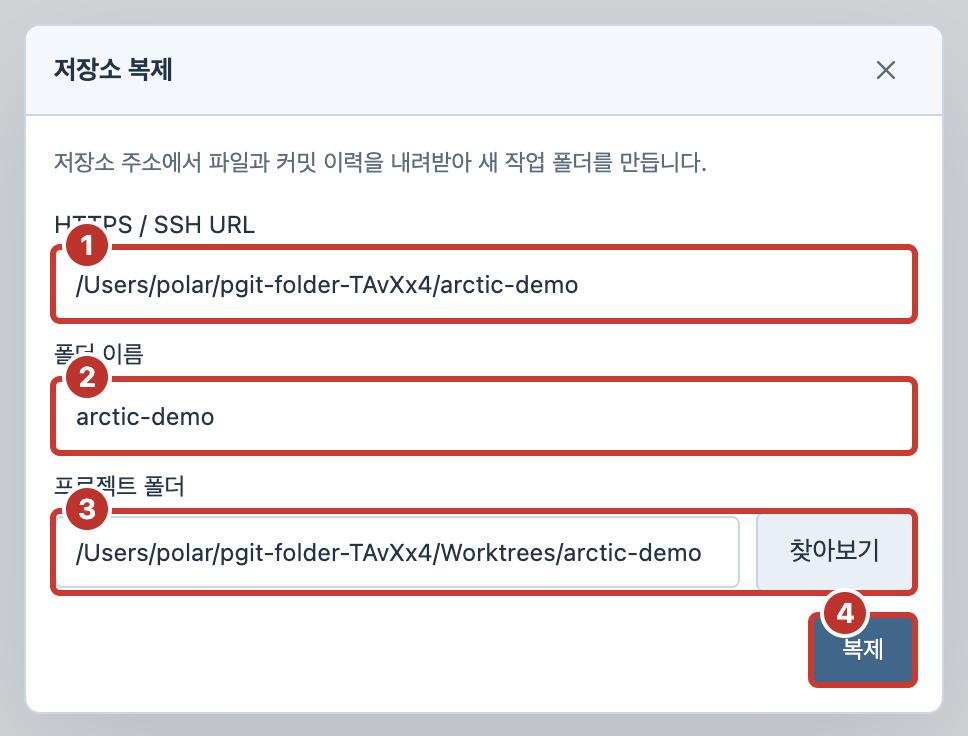
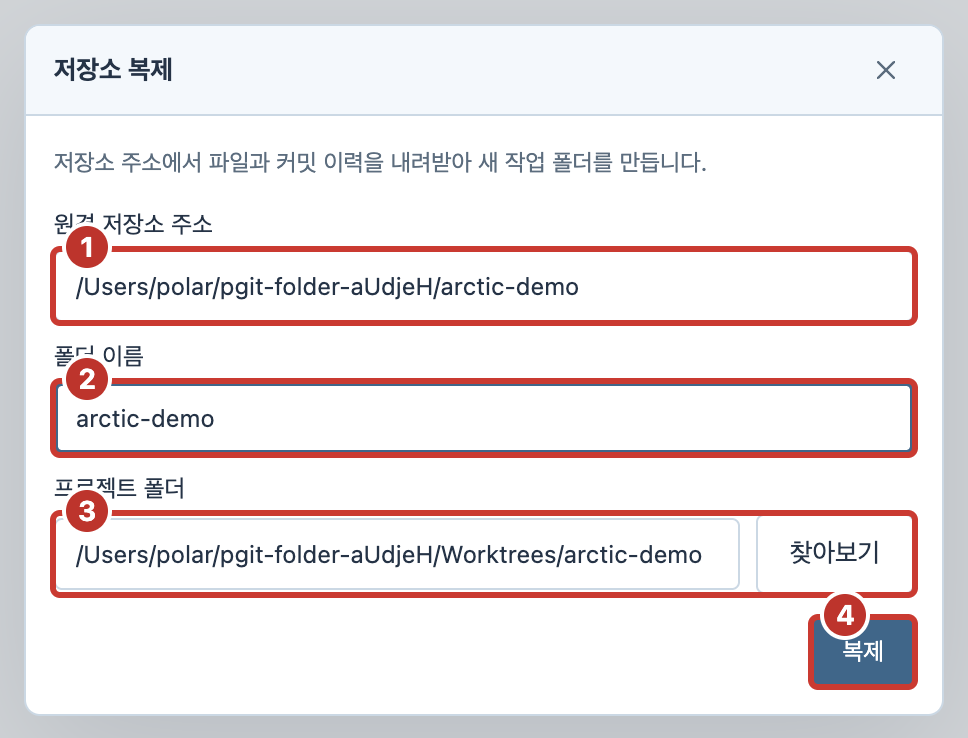
fix: distinguish missing repository folders from missing Git

diff --git a/public/workspace.js b/public/workspace.js
@@ -4,7 +4,7 @@ const commands={
  branchSwitch:['브랜치 전환',[['name','전환할 브랜치','branches']],'작업 폴더가 깨끗한 경우에만 전환합니다.'],
  branchRename:['브랜치 이름 변경',[['name','기존 브랜치','branches'],['newName','새 이름']]],
  branchDelete:['브랜치 삭제',[['name','삭제할 브랜치','branches']],'병합된 로컬 브랜치만 삭제합니다.'],
- remoteAdd:['원격 추가',[['name','원격 이름','origin'],['url','HTTPS / SSH URL']]],
+ remoteAdd:['원격 추가',[['name','원격 이름','origin'],['url','원격 저장소 주소']]],
  remoteRemove:['원격 제거',[['name','원격 이름','remotes']],'원격 설정과 해당 원격 추적 참조를 제거합니다.'],
  remoteList:['원격 주소 보기',[]],fetch:['Fetch',[['remote','원격','remotes']]],pull:['Pull',[['strategy','Pull 방식','pullStrategies']]],push:['Push',[['remote','원격','remotes']],'현재 브랜치를 원격의 같은 이름 브랜치로 전송합니다. 강제 Push는 하지 않습니다.'],
  stashSave:['Stash 만들기',[['message','설명','pGit stash']],'추적하지 않는 새 파일도 보관합니다.'],stashApply:['Stash 적용',[['hash','Stash','stashes']]],stashPop:['Stash 적용 후 제거',[['hash','Stash','stashes']]],stashDrop:['Stash 삭제',[['hash','Stash','stashes']],'선택한 Stash를 삭제합니다. 이 작업은 취소할 수 없습니다.'],stashDiff:['Stash Diff',[['hash','Stash','stashes']]],
@@ -15,7 +15,7 @@ const commands={
  undoCommit:['마지막 커밋 되돌리기',[],'HEAD를 부모 커밋으로 이동하고 변경은 스테이징에 남깁니다. 이미 공유한 커밋에는 Revert를 사용하세요.'],
  fileHistory:['파일 이력',[['name','추적 파일','files']]],blame:['Blame',[['name','추적 파일','files']]],compare:['참조 비교',[['from','기준 참조','commits',false,'HEAD~1'],['to','비교 참조','commits',false,'HEAD']]],reflog:['Reflog',[]],
  worktreeList:['Worktree 목록',[]],worktreeAdd:['Worktree 만들기',[['path','새 작업 폴더 절대 경로'],['name','새 브랜치'],['ref','시작 커밋','commits',false,'HEAD']]],worktreeRemove:['Worktree 제거',[['path','제거할 작업 폴더','worktrees']],'선택한 작업 폴더를 삭제합니다. 수정 내용이 있거나 잠긴 worktree는 Git이 거부합니다.'],
- init:['새 저장소 만들기',[['path','프로젝트 폴더']]],clone:['저장소 복제',[['url','HTTPS / SSH URL'],['path','프로젝트 폴더']]]
+ init:['새 저장소 만들기',[['path','프로젝트 폴더']]],clone:['저장소 복제',[['url','원격 저장소 주소'],['path','프로젝트 폴더']]]
 };
 const categories=[['저장소',['init','clone','remoteAdd','remoteList','remoteRemove']],['브랜치',['branchCreate','branchSwitch','branchRename','branchDelete']],['동기화',['fetch','pull','push']],['커밋',['mergePreview','merge','rebase','cherryPick','revert','compare','undoCommit','reflog']],['보관',['stashSave','stashDiff','stashApply','stashPop','stashDrop','tagCreate','tagDelete']],['파일 · Worktree',['fileHistory','blame','resolve','worktreeList','worktreeAdd','worktreeRemove']]];
 const panel=el('dialog');panel.id='commandDialog';panel.setAttribute('aria-label','Git 작업');document.body.append(panel);
@@ -40,7 +40,7 @@ window.addEventListener('pgit-language-change',()=>{if(panel.open&&panel.dataset
 
 async function openCommand(key){if(working)return;if(!state&&!['init','clone'].includes(key)){notify('먼저 저장소를 여세요.');return}let amend=null;if(key==='amend'){try{amend=await api('amendInfo')}catch(e){notify(e.message);return}}const [title,fields,warning]=commands[key];panel.dataset.dialogKind='form';panel.replaceChildren();const bar=el('div',undefined,'bar');bar.append(el('strong',title),closeButton());const form=el('form',undefined,'command-body');form.dataset.command=key;panel.append(bar,form);PgitCommandHelp.mount(form,key);if(warning)form.append(el('p',warning,'command-notice'));const error=el('p',undefined,'command-error');error.setAttribute('role','alert');const inputs=amend?{head:{value:amend.head}}:{};let tracked=[];if(fields.some(f=>f[2]==='files'))try{tracked=await api('trackedFiles')}catch(e){notify(e.message);return}
 for(const [name,label,source,optional,initial] of fields){const choices=source==='pullStrategies'?[['ff-only','Fast-forward only'],['merge','Merge'],['rebase','Rebase']]:source==='mergeRefs'?[...state.branches.map(b=>[b.name,b.name]),...state.refs.filter(r=>r.name.startsWith('refs/remotes/')&&!r.name.endsWith('/HEAD')).map(r=>[r.name,r.name.slice(13)])]:source==='branches'?state.branches.map(b=>[b.name,b.name]):source==='remotes'?state.remotes.map(n=>[n,n]):source==='stashes'?state.stashes.map(s=>[s.hash,s.name+' · '+s.title]):source==='tags'?state.refs.filter(r=>r.name.startsWith('refs/tags/')).map(r=>[r.name.slice(10),r.name.slice(10)]):source==='conflicts'?state.files.filter(f=>f.conflict).map(f=>[f.name,f.name]):source==='files'?tracked.map(n=>[n,n]):source==='worktrees'?state.worktrees.filter(w=>w.path!==state.root).map(w=>[w.path,w.path]):null;
-const input=source==='commits'?PgitCommitPicker.create(state,initial||activeCommit||state.head):el(source==='commitMessage'?'textarea':choices?'select':'input');input.id='command-'+name;input.name=name;input.required=!optional;if(source==='commitMessage'){input.value=amend.message;input.className='commit-message-input';input.rows=6;input.maxLength=4000}else if(source==='commits'){}else if(choices){for(const [v,t] of choices){const option=el('option',t);option.value=v;input.append(option)}if(!choices.length){input.append(el('option','항목 없음'));input.disabled=true}}else{input.type='text';input.value=source==='selected'?activeCommit||'':source||''}const lab=el('label',label);lab.htmlFor=input.id;form.append(lab,input);inputs[name]=input}
+const input=source==='commits'?PgitCommitPicker.create(state,initial||activeCommit||state.head):el(source==='commitMessage'?'textarea':choices?'select':'input');input.id='command-'+name;input.name=name;if(name==='url')input.placeholder='https://gitlab.example.com/team/project.git';input.required=!optional;if(source==='commitMessage'){input.value=amend.message;input.className='commit-message-input';input.rows=6;input.maxLength=4000}else if(source==='commits'){}else if(choices){for(const [v,t] of choices){const option=el('option',t);option.value=v;input.append(option)}if(!choices.length){input.append(el('option','항목 없음'));input.disabled=true}}else{input.type='text';input.value=source==='selected'?activeCommit||'':source||''}const lab=el('label',label);lab.htmlFor=input.id;form.append(lab,input);inputs[name]=input}
 if(amend){const summary=el('div',undefined,'amend-summary');summary.append(el('strong',amend.files.length?'함께 반영할 파일':'스테이징된 변경 없음 · 메시지만 수정'));for(const name of amend.files)summary.append(el('div',name,'literal-data'));form.append(summary)}const submit=el('button',key==='init'?'만들기':key==='clone'?'복제':key==='branchSwitch'?'브랜치 전환':key==='resetPreview'?'변경 내용 확인':'실행','primary');submit.type='submit';submit.disabled=Object.values(inputs).some(i=>i.disabled);form.append(error,submit);form.onsubmit=async e=>{e.preventDefault();if(working)return;const data=Object.fromEntries(Object.entries(inputs).map(([k,v])=>[k,v.value]));if(key==='merge'&&form.mergePreview){data.expectedHead=form.mergePreview.head;data.expectedTarget=form.mergePreview.target}submit.disabled=true;working=true;controls();try{const result=await api(key,{...data,limit:historyLimit});if(typeof result==='string'||Array.isArray(result)){panel.dataset.dialogKind=key==='remoteList'?'list':'output';panel.replaceChildren();const top=el('div',undefined,'bar');top.append(el('strong',title),closeButton());const pre=el('pre',typeof result==='string'?result:result.join('\n'),'command-output');panel.append(top,pre)}else{state=result;scope=null;render();panel.close();notify(title+' 완료')}}catch(e){error.textContent=e.message;try{if(state){state=await api('state',{limit:historyLimit});render()}}catch{} }finally{working=false;controls();submit.disabled=false}};if(['init','clone'].includes(key))PgitFolderPicker.mount({input:inputs.path,submit,error,url:inputs.url});PgitReferenceFields.mount({key,form,inputs,submit,error,snapshot:state});if(!panel.open)panel.showModal();Object.values(inputs).find(input=>typeof input.focus==='function')?.focus();}
 function renderExtras(){if(!state)return;syncLabel.textContent=state.upstream?`${state.upstream} · ↑${state.ahead} ↓${state.behind}`:'추적 브랜치 없음';banner.replaceChildren();banner.hidden=!state.operation;if(state.operation){banner.append(el('strong',state.operation+' 진행 중'));const conflicts=state.files.filter(f=>f.conflict);if(conflicts.length){const edit=el('button','충돌 편집기 열기');edit.onclick=()=>conflicts.length===1?openAdvanced('conflictRead',{name:conflicts[0].name}):openCommand('conflictRead');banner.append(edit)}for(const key of ['continue','abort']){const b=el('button',commands[key][0]);b.disabled=key==='continue'&&!!conflicts.length;b.onclick=()=>openCommand(key);banner.append(b)}}extrasPanel.replaceChildren();const remoteRefs=state.refs.filter(r=>r.name.startsWith('refs/remotes/')&&!r.name.endsWith('/HEAD'));extrasPanel.append(el('div','REMOTE','caption'));for(const remote of [...new Set(remoteRefs.map(r=>r.name.slice(13).split('/')[0]))]){const group=el('details');group.className='remote-group';group.open=true;const summary=el('summary');summary.append(el('span',remote,'branch-folder-name literal-data'),el('span',String(remoteRefs.filter(r=>r.name.startsWith('refs/remotes/'+remote+'/')).length),'folder-count'));const children=el('div',undefined,'branch-folder-children');group.append(summary,children);for(const r of remoteRefs.filter(r=>r.name.startsWith('refs/remotes/'+remote+'/'))){const b=el('button',r.name.slice(14+remote.length),'nav remote-branch');b.dataset.ref=r.name;b.title=r.name.slice(13);b.onclick=()=>chooseHistoryRef(r.name,r.hash);children.append(b)}extrasPanel.append(group)}if(!remoteRefs.length)extrasPanel.append(el('div','원격 브랜치 없음','branch-empty'));extrasPanel.append(el('div','TAGS','caption'));for(const r of state.refs.filter(r=>r.name.startsWith('refs/tags/'))){const b=el('button',undefined,'nav sidebar-ref tag-ref');b.append(el('span',r.name.slice(10),'literal-data'));b.dataset.ref=r.name;b.title=r.name.slice(10);b.prepend(PgitIcons.icon('tag'));b.onclick=()=>chooseHistoryRef(r.name,r.hash);extrasPanel.append(b)}extrasPanel.append(el('div',`STASHES · ${state.stashes.length}`,'caption'));for(const s of state.stashes){const b=el('button',undefined,'nav sidebar-ref stash-ref');b.append(PgitIcons.icon('stash'),el('span',s.title,'literal-data'));b.title=s.name+' · '+s.title;b.dataset.stash=s.hash;b.onclick=()=>contextualCommand('stashDiff',{hash:s.hash});extrasPanel.append(b)}}
 const baseRender=render;render=function(){baseRender();renderExtras();syncHistoryScope()};

diff --git a/public/locales.js b/public/locales.js
@@ -40,6 +40,9 @@ const languages=[
 ];
 const columns=["ja","zh-CN","es","fr"];
 const messages={
+"Remote repository address": ["リモートリポジトリのアドレス","远程仓库地址","Dirección del repositorio remoto","Adresse du dépôt distant"],
+"Repository folder not found. Check whether it was moved or deleted, then reopen the project.": ["リポジトリのフォルダーが見つかりません。移動または削除されていないか確認し、プロジェクトを開き直してください。","找不到仓库文件夹。请检查它是否已移动或删除，然后重新打开项目。","No se encuentra la carpeta del repositorio. Comprueba si se movió o eliminó y vuelve a abrir el proyecto.","Dossier du dépôt introuvable. Vérifiez s’il a été déplacé ou supprimé, puis rouvrez le projet."],
+"Git executable not found. Check your Git installation and executable path, then restart the app.": ["Gitの実行ファイルが見つかりません。インストールと実行パスを確認し、アプリを再起動してください。","找不到 Git 可执行文件。请检查 Git 安装和执行路径，然后重启应用。","No se encuentra el ejecutable de Git. Comprueba su instalación y ruta, y reinicia la aplicación.","Exécutable Git introuvable. Vérifiez son installation et son chemin, puis redémarrez l’application."],
   "Folder name": ["フォルダー名","文件夹名称","Nombre de carpeta","Nom du dossier"],
   "Check the folder name.": ["フォルダー名を確認してください。","请检查文件夹名称。","Comprueba el nombre de la carpeta.","Vérifiez le nom du dossier."],
 "Create repository": ["リポジトリを作成", "创建仓库", "Crear repositorio", "Créer un dépôt"],

diff --git a/public/i18n.js b/public/i18n.js
@@ -1,6 +1,9 @@
 (() => {
 // UI copy only. Repository names, commit messages, code, paths and command output stay verbatim.
 const pairs=`
+원격 저장소 주소|Remote repository address
+저장소 폴더를 찾을 수 없습니다. 폴더가 이동되거나 삭제되었는지 확인하고 프로젝트를 다시 여세요.|Repository folder not found. Check whether it was moved or deleted, then reopen the project.
+Git 실행 파일을 찾을 수 없습니다. Git 설치와 실행 경로를 확인한 뒤 앱을 다시 시작하세요.|Git executable not found. Check your Git installation and executable path, then restart the app.
 폴더 이름|Folder name
 폴더 이름을 확인하세요.|Check the folder name.
 함께 반영할 파일|Files included in this amendment
